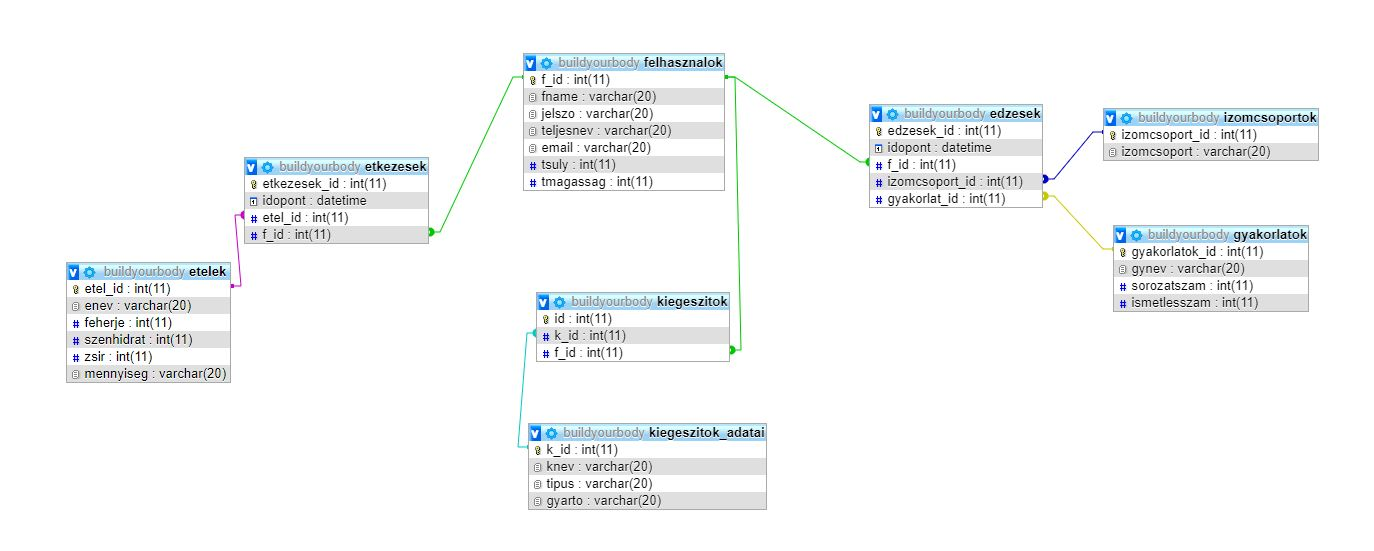
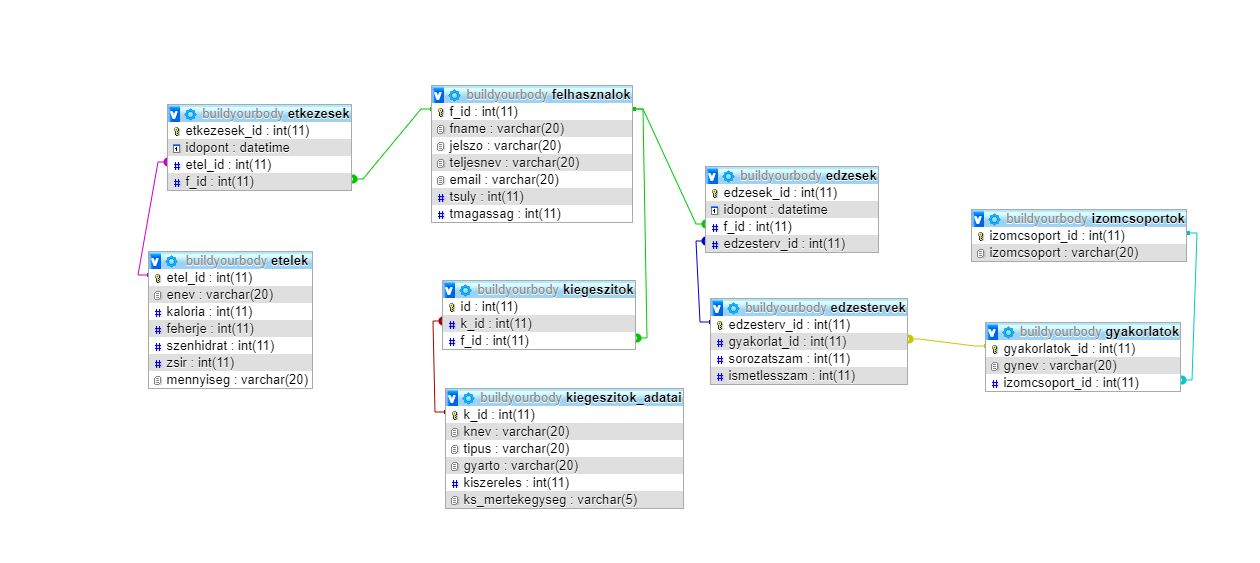
Adatbázis változtatások, új tábla foreign key beállítás

Changed region(s): [[0.031, 0.0926, 0.9595, 0.9256]]

diff --git a/byb/Modell/Database/CreateDatabase.cs b/byb/Modell/Database/CreateDatabase.cs
@@ -61,17 +61,18 @@ namespace byb.Database
                                             " `edzesek_id` int(11) NOT NULL PRIMARY KEY AUTO_INCREMENT ," +
                                             "`idopont` datetime NOT NULL," +
                                             "`f_id` int(11) NOT NULL," +
-                                            "`izomcsoport_id` int(11) NOT NULL" +
+                                            "`edzesterv_id` int(11) NOT NULL" +
                                             ") ENGINE = InnoDB DEFAULT CHARSET = utf8 COLLATE = utf8_hungarian_ci; ";
                 MySqlCommand cdmedzes = new MySqlCommand(edzesekQuery, con);
                 cdmedzes.ExecuteNonQuery();
 
 
-                string edzesterv = "CREATE TABLE IF NOT EXISTS `edzesterv` (" +
-                                         " `edzesterv_id` int(11) NOT NULL PRIMARY KEY AUTO_INCREMENT," +
-                                          "`gyakorlatok_id` int(11) NOT NULL,"+
-                                          "`edzesek_id` int(11) NOT NULL"+
-                                        ") ENGINE = InnoDB DEFAULT CHARSET = utf8 COLLATE = utf8_hungarian_ci; ";
+                string edzesterv = "CREATE TABLE IF NOT EXISTS `edzestervek` ( "+
+ " `edzesterv_id` int(11) NOT NULL PRIMARY KEY AUTO_INCREMENT,"+
+ " `gyakorlat_id` int(11) NOT NULL,"+
+ " `sorozatszam` int(11) NOT NULL,"+
+ " `ismetlesszam` int(11) NOT NULL"+
+") ENGINE = InnoDB DEFAULT CHARSET = utf8 COLLATE = utf8_hungarian_ci; ";
                 MySqlCommand cmdterv = new MySqlCommand(edzesterv, con);
                 cmdterv.ExecuteNonQuery();
 
@@ -80,7 +81,6 @@ namespace byb.Database
                 string etelek = "CREATE TABLE IF NOT EXISTS `etelek` (" +
                                  " `etel_id` int(11) NOT NULL PRIMARY KEY AUTO_INCREMENT," +
                                  " `enev` varchar(20) COLLATE utf8_hungarian_ci NOT NULL,"+
-                                 " `kaloria` int(11) NOT NULL,"+
                                   "`feherje` int(11) NOT NULL,"+
                                  " `szenhidrat` int(11) NOT NULL,"+
                                  " `zsir` int(11) NOT NULL,"+
@@ -117,8 +117,7 @@ namespace byb.Database
                 string gyakorlatok = "CREATE TABLE IF NOT EXISTS `gyakorlatok` (" +
                                  " `gyakorlatok_id` int(11) NOT NULL PRIMARY KEY AUTO_INCREMENT," +
                                  " `gynev` varchar(20) COLLATE utf8_hungarian_ci NOT NULL,"+
-                                 " `sorozatszam` int(11) NOT NULL,"+
-                                 " `ismetlesszam` int(11) NOT NULL"+
+                                 " `izomcsoport_id` int(11) NOT NULL" +
                                 ") ENGINE = InnoDB DEFAULT CHARSET = utf8 COLLATE = utf8_hungarian_ci; ";
                 MySqlCommand cmdgyakorlatok = new MySqlCommand(gyakorlatok, con);
                 cmdgyakorlatok.ExecuteNonQuery();
@@ -146,9 +145,7 @@ namespace byb.Database
                                           "`k_id` int(11) NOT NULL PRIMARY KEY AUTO_INCREMENT," +
                                           "`knev` varchar(20) COLLATE utf8_hungarian_ci NOT NULL,"+
                                           "`tipus` varchar(20) CHARACTER SET utf32 COLLATE utf32_hungarian_ci NOT NULL,"+
-                                          "`gyarto` varchar(20) COLLATE utf8_hungarian_ci NOT NULL,"+
-                                          "`kiszereles` int(11) NOT NULL,"+
-                                          "`ks_mertekegyseg` varchar(5) COLLATE utf8_hungarian_ci NOT NULL"+
+                                          "`gyarto` varchar(20) COLLATE utf8_hungarian_ci NOT NULL"+
                                         ") ENGINE = InnoDB DEFAULT CHARSET = utf8 COLLATE = utf8_hungarian_ci; ";
                 MySqlCommand cmdkiegadatok = new MySqlCommand(kiegadatok, con);
                 cmdkiegadatok.ExecuteNonQuery();
@@ -156,14 +153,13 @@ namespace byb.Database
 
                 string fkeyEdzesek = "ALTER TABLE `edzesek`" +
   "ADD CONSTRAINT `edzesek_ibfk_1` FOREIGN KEY IF NOT EXISTS (`f_id`) REFERENCES `felhasznalok` (`f_id`)," +
-  "ADD CONSTRAINT `edzesek_ibfk_2` FOREIGN KEY IF NOT EXISTS (`izomcsoport_id`) REFERENCES `izomcsoportok` (`izomcsoport_id`); ";
+  "ADD CONSTRAINT `edzesek_ibfk_2` FOREIGN KEY IF NOT EXISTS (`edzesterv_id`) REFERENCES `edzestervek` (`edzesterv_id`); ";
                 MySqlCommand fkeyEdzesekcmd = new MySqlCommand(fkeyEdzesek, con);
                 fkeyEdzesekcmd.ExecuteNonQuery();
 
 
-                string fkeyEdzesterv = "ALTER TABLE `edzesterv`"+
-  "ADD CONSTRAINT `edzesterv_ibfk_1` FOREIGN KEY IF NOT EXISTS (`edzesek_id`) REFERENCES `edzesek` (`edzesek_id`),"+
-  "ADD CONSTRAINT `edzesterv_ibfk_2` FOREIGN KEY IF NOT EXISTS (`gyakorlatok_id`) REFERENCES `gyakorlatok` (`gyakorlatok_id`); ";
+                string fkeyEdzesterv = "ALTER TABLE `edzestervek`"+
+  "ADD CONSTRAINT `edzestervek_ibfk_1` FOREIGN KEY IF NOT EXISTS (`gyakorlat_id`) REFERENCES `gyakorlatok` (`gyakorlatok_id`);";
                 MySqlCommand fkeyEdzestervcmd = new MySqlCommand(fkeyEdzesterv, con);
                 fkeyEdzestervcmd.ExecuteNonQuery();
 
@@ -179,6 +175,11 @@ namespace byb.Database
   "ADD CONSTRAINT `kiegeszitok_ibfk_2` FOREIGN KEY IF NOT EXISTS (`k_id`) REFERENCES `kiegeszitok_adatai` (`k_id`); ";
                 MySqlCommand fkeyKiegcmd = new MySqlCommand(fkeyKieg, con);
                 fkeyKiegcmd.ExecuteNonQuery();
+
+                string fkeyGyak = "ALTER TABLE `gyakorlatok`"+
+  "ADD CONSTRAINT `gyakorlatok_ibfk_1` FOREIGN KEY(`izomcsoport_id`) REFERENCES `izomcsoportok` (`izomcsoport_id`); ";
+                MySqlCommand fkeyGyakcmd = new MySqlCommand(fkeyGyak, con);
+                fkeyGyakcmd.ExecuteNonQuery();
                 con.Close();
             }
             catch (CreateDatabaseException cde)
